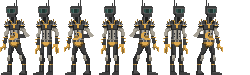
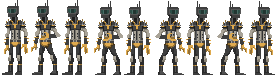
Game Update

diff --git a/group-project/src/components/RyansGame.vue b/group-project/src/components/RyansGame.vue
@@ -46,8 +46,8 @@ function preload() {
   this.load.image("bomb", "bomb.png");
   this.load.spritesheet("dude", "dude.png",
   {
-    frameWidth: 32,
-    frameHeight: 48,
+    frameWidth: 31,
+    frameHeight: 72,
   });
 }
 
@@ -66,7 +66,67 @@ function create() {
 
   player.setBounce(0.1);
   player.setCollideWorldBounds(true);
+// buttons----------------->
+  const buttonL = this.add.text(80, 570, '<', {
+            fontFamily: 'Arial',
+            fontSize: '32px',
+            color: '#ffffff',
+            align: 'center',
+            fixedWidth: 40,
+            fixedHeight:40,
+            backgroundColor: '#2d2d2d'
+        }).setPadding(3).setOrigin(0.5);
 
+        buttonL.setInteractive({ useHandCursor: true });
+
+        buttonL.on('pointerover', () => {
+            buttonL.setBackgroundColor('#8d8d8d');
+        });
+
+        buttonL.on('pointerout', () => {
+            buttonL.setBackgroundColor('#2d2d2d');
+        });
+
+        const buttonR = this.add.text(130, 570, '>', {
+            fontFamily: 'Arial',
+            fontSize: '32px',
+            color: '#ffffff',
+            align: 'center',
+            fixedWidth: 40,
+            fixedHeight:40,
+            backgroundColor: '#2d2d2d'
+        }).setPadding(3).setOrigin(0.5);
+
+        buttonR.setInteractive({ useHandCursor: true });
+
+        buttonR.on('pointerover', () => {
+            buttonR.setBackgroundColor('#8d8d8d');
+        });
+
+        buttonR.on('pointerout', () => {
+            buttonR.setBackgroundColor('#2d2d2d');
+        });
+
+        const buttonJump = this.add.text(680, 570, 'JUMP', {
+            fontFamily: 'Arial',
+            fontSize: '32px',
+            color: '#ffffff',
+            align: 'center',
+            fixedWidth: 100,
+            fixedHeight:40,
+            backgroundColor: '#2d2d2d'
+        }).setPadding(3).setOrigin(0.5);
+
+        buttonJump.setInteractive({ useHandCursor: true });
+
+        buttonJump.on('pointerover', () => {
+            buttonJump.setBackgroundColor('#8d8d8d');
+        });
+
+        buttonJump.on('pointerout', () => {
+            buttonJump.setBackgroundColor('#2d2d2d');
+        });
+// keyboard input --------------->
   this.anims.create({
     key: "left",
     frames: this.anims.generateFrameNumbers("dude", { start: 0, end: 3 }),
@@ -94,7 +154,7 @@ function create() {
     repeat: 8,
     setXY: { x: 12, y: 0, stepX: 90 },
   });
-
+// stars
   stars.children.iterate(function (child) {
     child.setBounceY(Phaser.Math.FloatBetween(0.1, 0.4));
   });
@@ -106,7 +166,7 @@ function create() {
     fontSize: "32px",
     fill: "#000",
   });
-
+// ------------------------
   this.physics.add.collider(player, platforms);
   this.physics.add.collider(stars, platforms);
   this.physics.add.collider(bombs, platforms);
